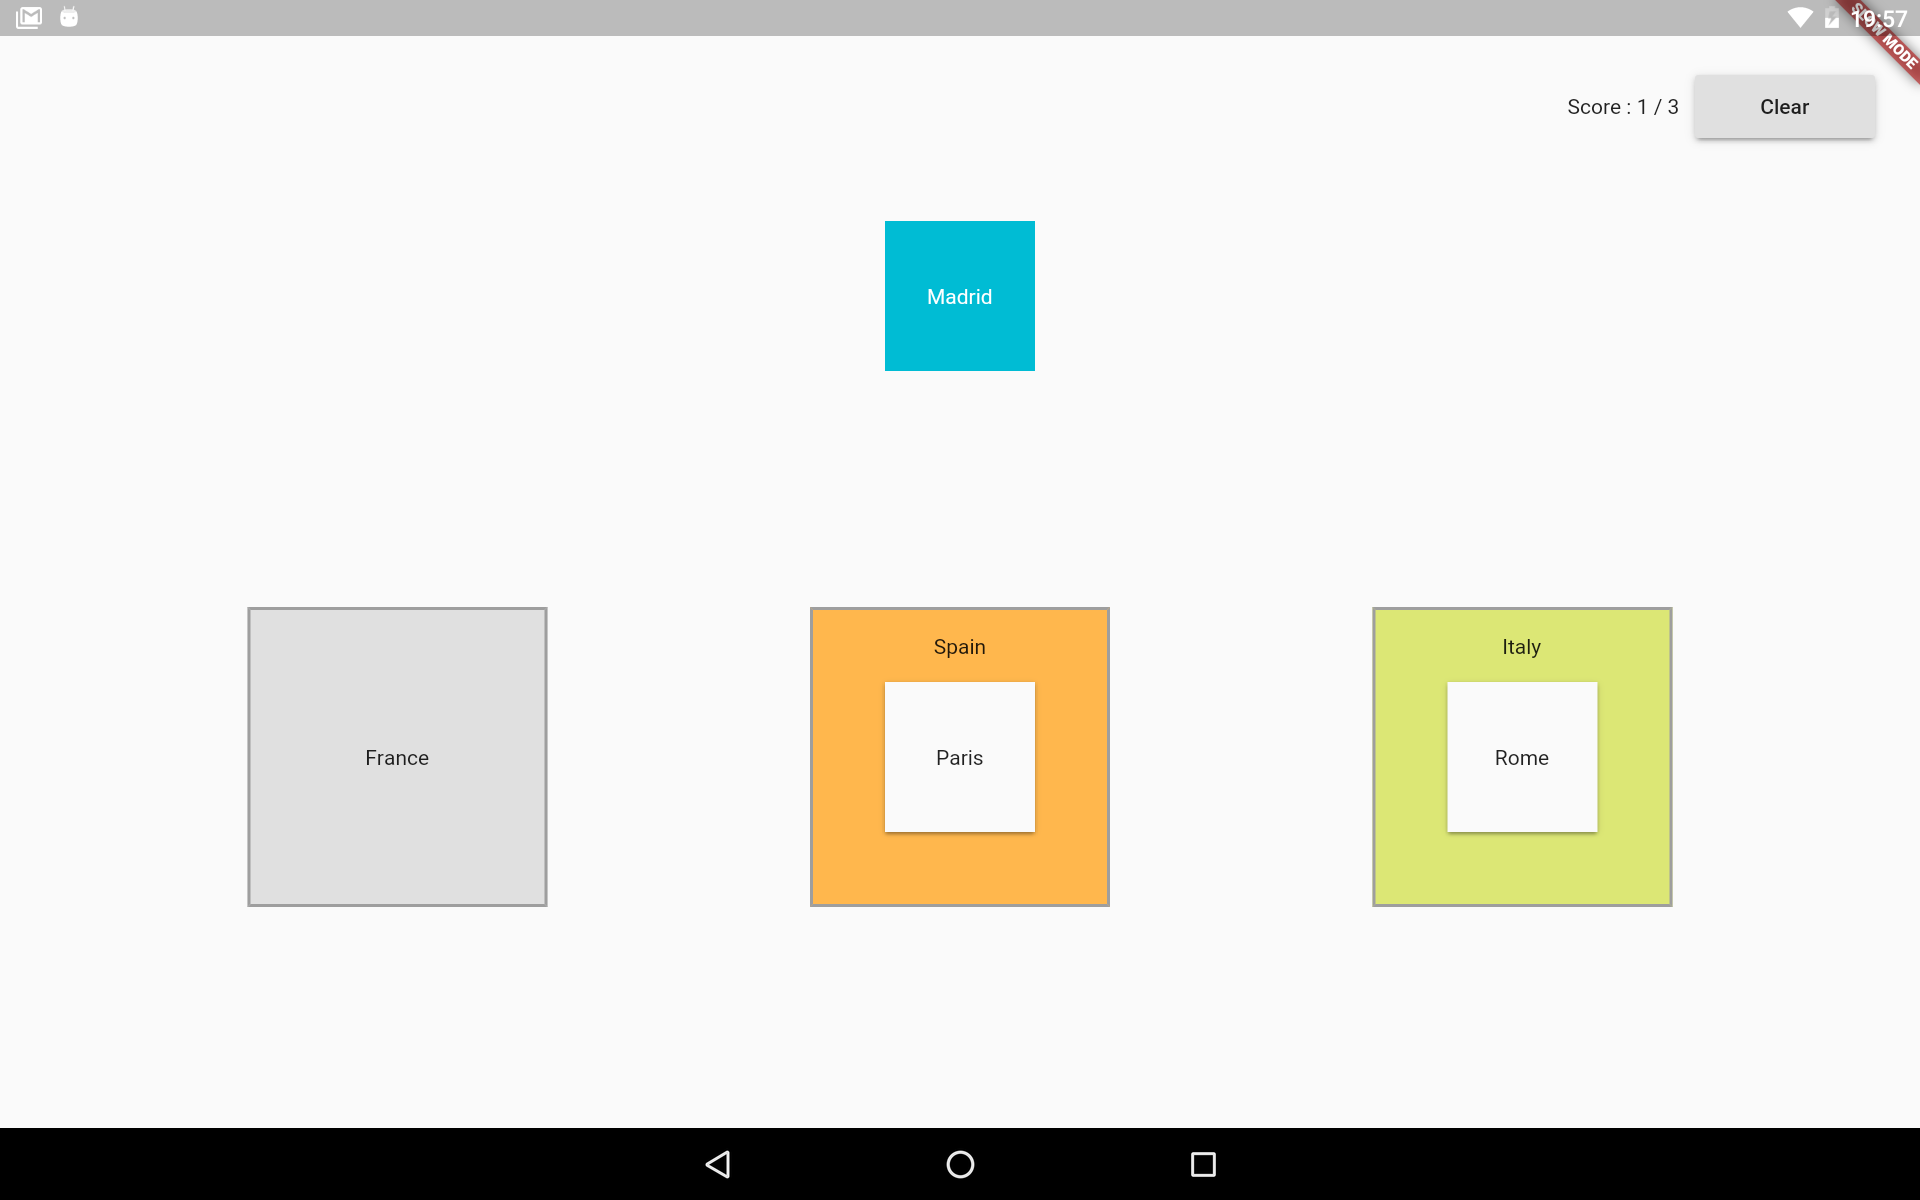
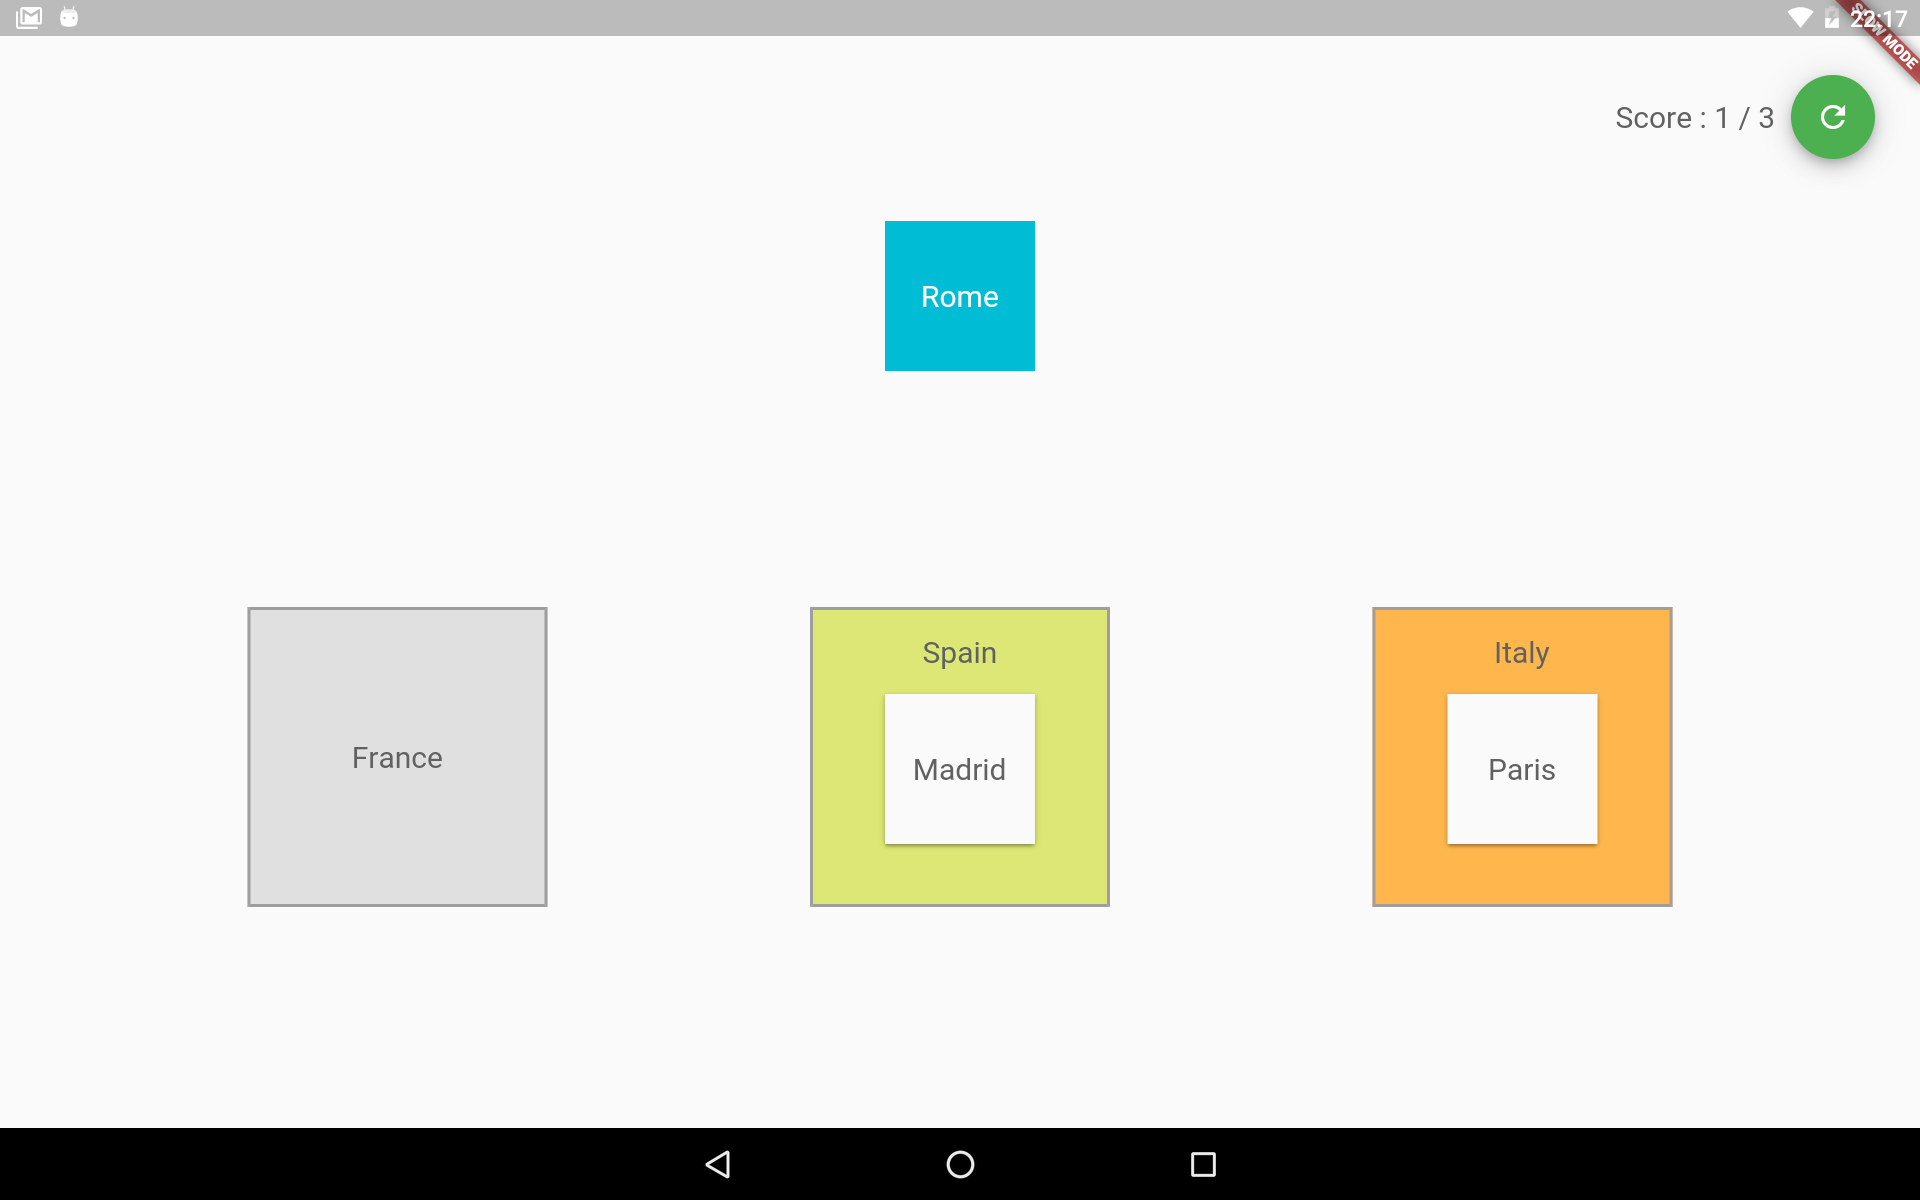
replace validation & clear buttons with FAB

diff --git a/lib/dragbox.dart b/lib/dragbox.dart
@@ -19,12 +19,12 @@ class _DragBoxState extends State<DragBox> {
 
   int score = 0;
 
-  Widget getButton(String label, VoidCallback onPress) => new Padding(
+  Widget getButton(IconData icon, VoidCallback onPress) => new Padding(
       padding: new EdgeInsets.all(10.0),
-      child: new SizedBox(
-          width: 120.0,
-          height: 42.0,
-          child: new RaisedButton(child: new Text(label), onPressed: onPress)));
+      child: new FloatingActionButton(
+          backgroundColor: Colors.green,
+          child: new Icon(icon),
+          onPressed: onPress));
 
   @override
   Widget build(BuildContext context) {
@@ -34,14 +34,15 @@ class _DragBoxState extends State<DragBox> {
         height: size.height,
         child: new Stack(children: [
           new Positioned(
-              right: 20.0,
-              top: 40.0,
-              child: new Row(mainAxisSize: MainAxisSize.min, children: [
-                validated
-                    ? new Text('Score : $score / ${widget.items.length}')
-                    : getButton('Validate', onValidate),
-                getButton('Clear', onClear),
-              ])),
+            right: 20.0,
+            top: 40.0,
+            child: validated
+                ? new Row(children: [
+                    new Text('Score : $score / ${widget.items.length}'),
+                    getButton(Icons.refresh, onClear)
+                  ])
+                : getButton(Icons.check, onValidate),
+          ),
           new Column(
               mainAxisAlignment: MainAxisAlignment.spaceEvenly,
               children: [
@@ -80,8 +81,7 @@ class _DragBoxState extends State<DragBox> {
 
         // if country was associated with other dropTarget
         if (pairs.containsValue(notif.item))
-          pairs.remove(pairs.keys.firstWhere(
-              (k) => pairs[k] == notif.item) );
+          pairs.remove(pairs.keys.firstWhere((k) => pairs[k] == notif.item));
         onItemSelection(notif.item, notif.dropIndex);
       }
     });

diff --git a/lib/main.dart b/lib/main.dart
@@ -19,6 +19,11 @@ class DropCityApp extends StatelessWidget {
 
   @override
   Widget build(BuildContext context) {
-    return new MaterialApp(home: new Scaffold(body: new DragBox(items)));
+    return new MaterialApp(
+        theme: getTheme(context), home: new Scaffold(body: new DragBox(items)));
   }
+
+  getTheme(BuildContext context) => Theme.of(context).copyWith(
+      textTheme: new TextTheme(
+          body1: new TextStyle(fontSize: 20.0, color: Colors.grey.shade700)));
 }
